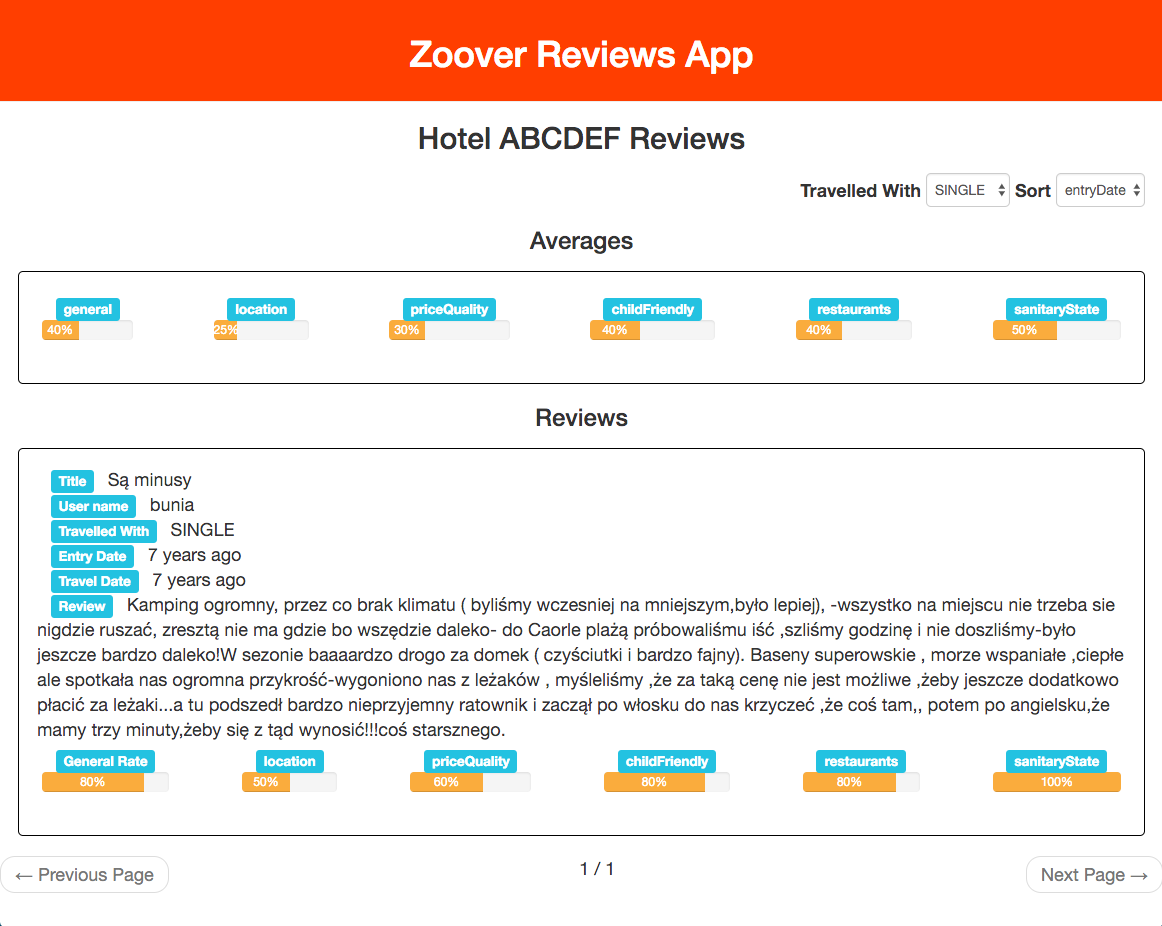
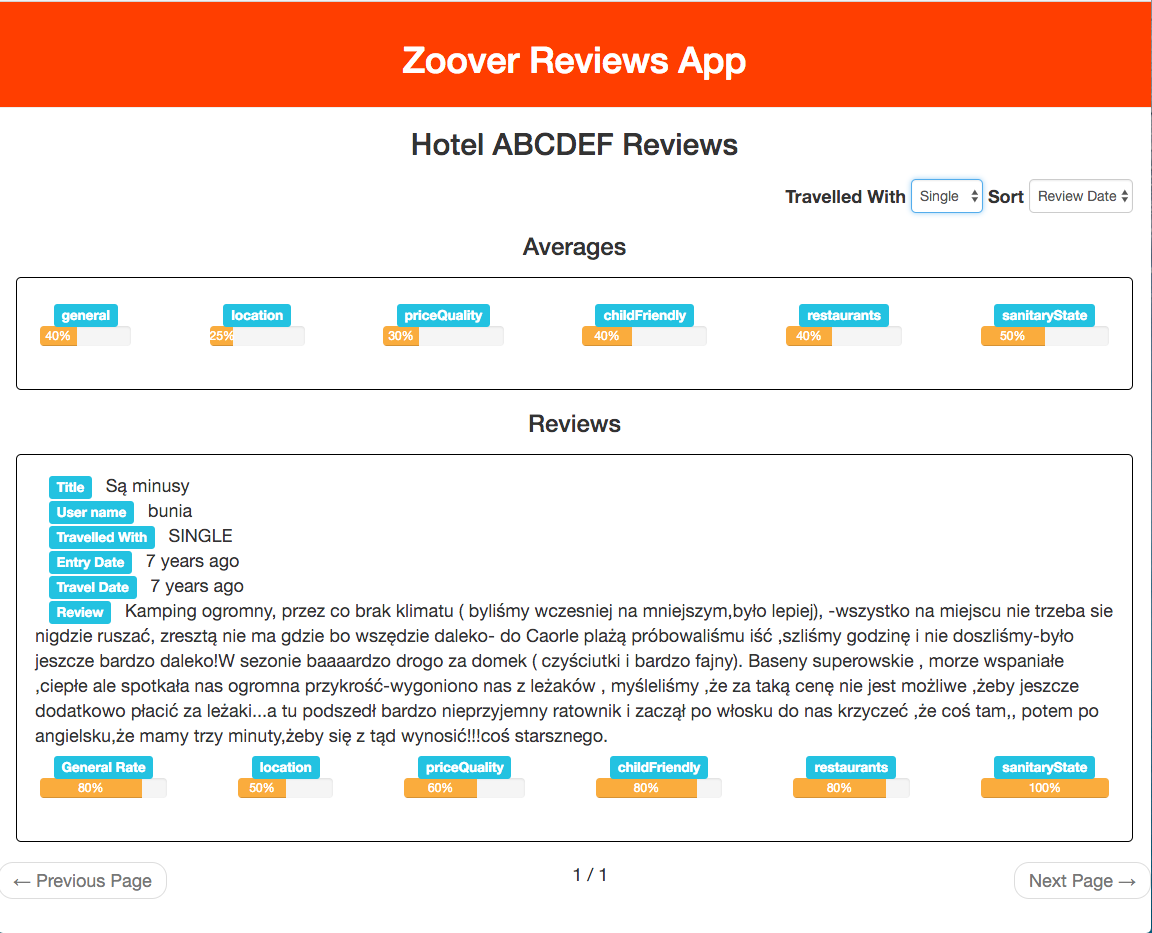
Updated screenshot and the top-bar

diff --git a/app/src/components/TopBar.jsx b/app/src/components/TopBar.jsx
@@ -18,18 +18,18 @@ class TopBar extends Component {
             <ControlLabel>Travelled With</ControlLabel>{' '}
             <FormControl componentClass="select" placeholder="Traveled With" onChange={this.handleTravelledWith.bind(this)}>
             <option value="">Any</option>
-            <option value="FAMILY">FAMILY</option>
-            <option value="FRIENDS">FRIENDS</option>
-            <option value="COUPLE">COUPLE</option>
-            <option value="SINGLE">SINGLE</option>
-            <option value="OTHER">OTHER</option>
+            <option value="FAMILY">Family</option>
+            <option value="FRIENDS">Friends</option>
+            <option value="COUPLE">Couple</option>
+            <option value="SINGLE">Single</option>
+            <option value="OTHER">Other</option>
             </FormControl>
           </FormGroup>{' '}
           <FormGroup controlId="sortSelect">
             <ControlLabel>Sort</ControlLabel>{' '}
             <FormControl componentClass="select" placeholder="sort By" onChange={this.handleSort.bind(this)}>
-            <option value="entryDate">entryDate</option>
-            <option value="travelDate">travelDate</option>
+            <option value="entryDate">Review Date</option>
+            <option value="travelDate">Travel Date</option>
             </FormControl>
           </FormGroup>{' '}
         </Form>
